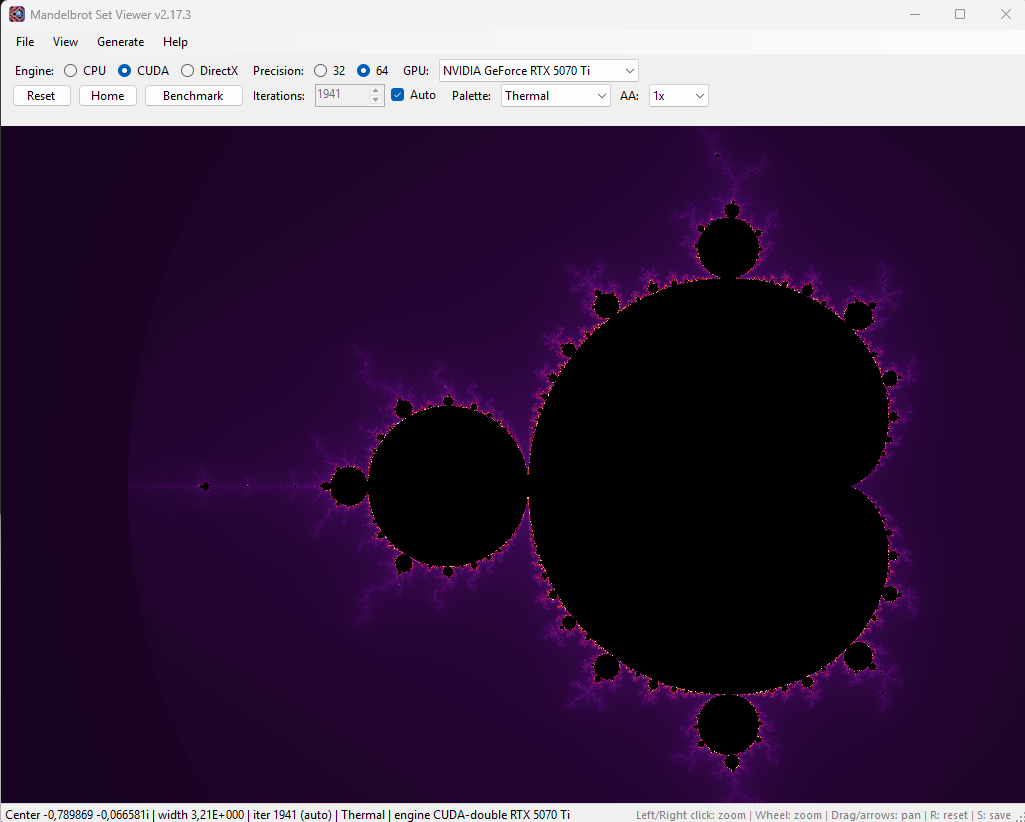
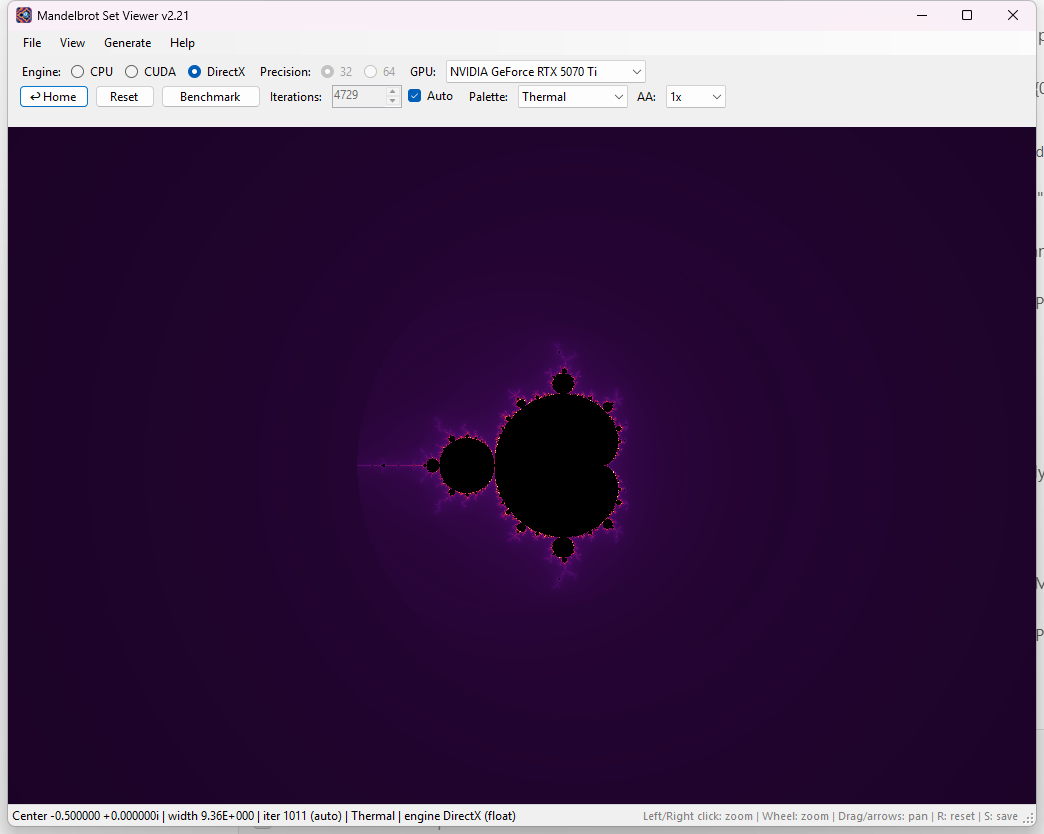
v2.21.0: real startup screenshot and release download section

diff --git a/TODO.md b/TODO.md
@@ -1,7 +1,7 @@
 # TODO — MandelC#
 Every user request becomes an entry here. Status: `pending` → `completed`/`cancelled`.
-- [ ] Push v2.21.0 with published exe in GitHub Release + README download check — pending
-- [ ] Update screen1.png with a real startup screenshot — pending
+- [x] Push v2.21.0 with published exe in GitHub Release + README download check — completed
+- [x] Update screen1.png with a real startup screenshot — completed (captured live v2.21 window, 1044x834)
 - [x] v2.21.0 Home button with arrow + "Home" text — completed
 - [x] v2.21.0 Home button first in row (house glyph idea) — cancelled (superseded by arrow + "Home" text below)
 - [x] v2.21.0 CPU honors the 32/64-bit UI setting like other engines (no fallback) — completed

diff --git a/SPECS.md b/SPECS.md
@@ -135,7 +135,7 @@ The optional card or device argument selects one target; without it, available t
 
 The current application version is defined by `AppVersion` and the project file. Documentation is kept separate from release history, development tasks, generic questions, and repository workflow instructions.
 
-Release v2.20.1 is published on GitHub with the self-contained
+Release v2.21.0 is published on GitHub with the self-contained
 `MandelbrotViewer.exe` asset; the README links to the latest release download.
 
 v2.19.2 render notes: the CPU path colors through a cached 4096-entry palette

diff --git a/README.md b/README.md
@@ -47,7 +47,7 @@ Interactive Mandelbrot set viewer built with C# / WinForms (.NET 8, Windows only
 
 ## Download
 
-Download the latest self-contained Windows executable (v2.20.1:
+Download the latest self-contained Windows executable (v2.21.0:
 `MandelbrotViewer.exe`, ~159 MB, no .NET installation required) from the
 [GitHub Releases page](https://github.com/ciskje/MandelC/releases/latest).
 Extract and run it.
